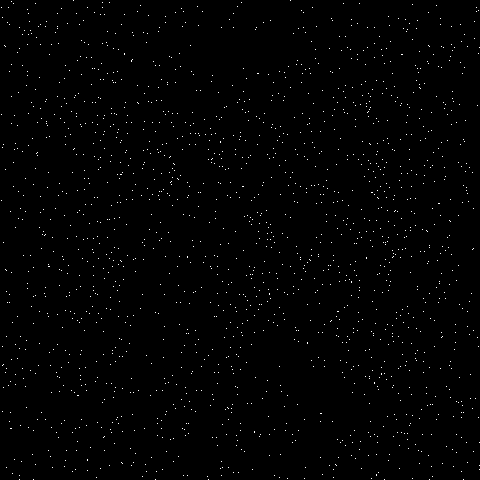
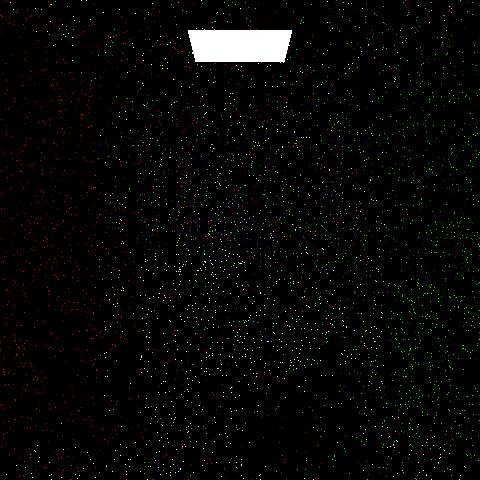
Noisy 1SPP Path Traced Cornell Box

Changed region(s): [[0.375, 0.0625, 0.625, 0.1562]]

diff --git a/HW1/CPU_PathTracer/src/raytracer.cpp b/HW1/CPU_PathTracer/src/raytracer.cpp
@@ -876,7 +876,7 @@ glm::vec3 PathTracerFindColor(UniformGrid* grid, const Ray& ray, Scene* scene, C
 		return glm::vec3(0.0f);
 	}
 
-	if (depth >= maxDepth || intersection.isLight)
+	if (depth > maxDepth || intersection.isLight)
 	{
 		return intersection.hitObjectEmission;
 	}
@@ -902,7 +902,13 @@ glm::vec3 PathTracerFindColor(UniformGrid* grid, const Ray& ray, Scene* scene, C
 	Ray secondaryRay(intersection.intersectionPoint + intersection.hitObjectNormal * 0.01f, glm::normalize(w_i));
 	Intersection secondaryIntersection = FindIntersection(grid, scene, secondaryRay, false);
 	depth = depth + 1;
-	glm::vec3 accumCol = PathTracerFindColor(grid, secondaryRay, scene, camera, depth, samples, stratify, secondaryIntersection);
+	glm::vec3 eyeDir = (secondaryRay.direction - intersection.intersectionPoint);
+	glm::vec3 normWO = glm::normalize(eyeDir);
+	glm::vec3 reflectVector = glm::reflect(normWO, intersection.hitObjectNormal);
+
+	float reflectVecDotWi = glm::dot(reflectVector, w_i);
+	glm::vec3 brdf = (intersection.hitObjectDiffuse / (float)M_PI) + (intersection.hitObjectSpecular * ((intersection.hitObjectShininess + 2) / (float)(M_PI * 2.0f))) * (glm::pow(reflectVecDotWi, intersection.hitObjectShininess));
+	glm::vec3 accumCol = 2.0f * (float)M_PI * PathTracerFindColor(grid, secondaryRay, scene, camera, depth, samples, stratify, secondaryIntersection) * brdf * glm::dot(secondaryIntersection.hitObjectNormal, eyeDir);
 	return accumCol;
 }
 
@@ -953,9 +959,22 @@ int RenderPixels(int heightChunkStart, int heightChunk, Scene& scene, Camera& ca
 				glm::vec3 accumCol(0.0f);
 				for (int pixSample = 0; pixSample < spp; pixSample++)
 				{
+					float jitterX = 0.0f;
+					float jitterY = 0.0f;
 					int depth = 0;
-					float jitterX = RandFloat() * 2.0f - 0.5f;
-					float jitterY = RandFloat() * 2.0f - 0.5f;
+					if (spp > 1)
+					{
+						// Jitter the ray within the pixel for anti-aliasing
+						jitterX = RandFloat() * 2.0f - 1.0f; // Random value in [-1, 1]
+						jitterY = RandFloat() * 2.0f - 1.0f;
+						jitterX *= 0.5f; // Scale jitter to half a pixel
+						jitterY *= 0.5f;
+					}
+					else
+					{
+						jitterX = 0.0f;
+						jitterY = 0.0f;
+					}
 					float pixSampleX = std::max(x + jitterX, 0.0f);
 					float pixSampleY = std::max(y + jitterY, 0.0f);
 					Ray ray = ShootRay(cam, pixSampleX, pixSampleY, width, height);
@@ -963,7 +982,7 @@ int RenderPixels(int heightChunkStart, int heightChunk, Scene& scene, Camera& ca
 
 					if (!intersection.didHit)
 					{
-						col = glm::vec3(0.0f);
+						col += glm::vec3(0.0f);
 					}
 					else
 					{
